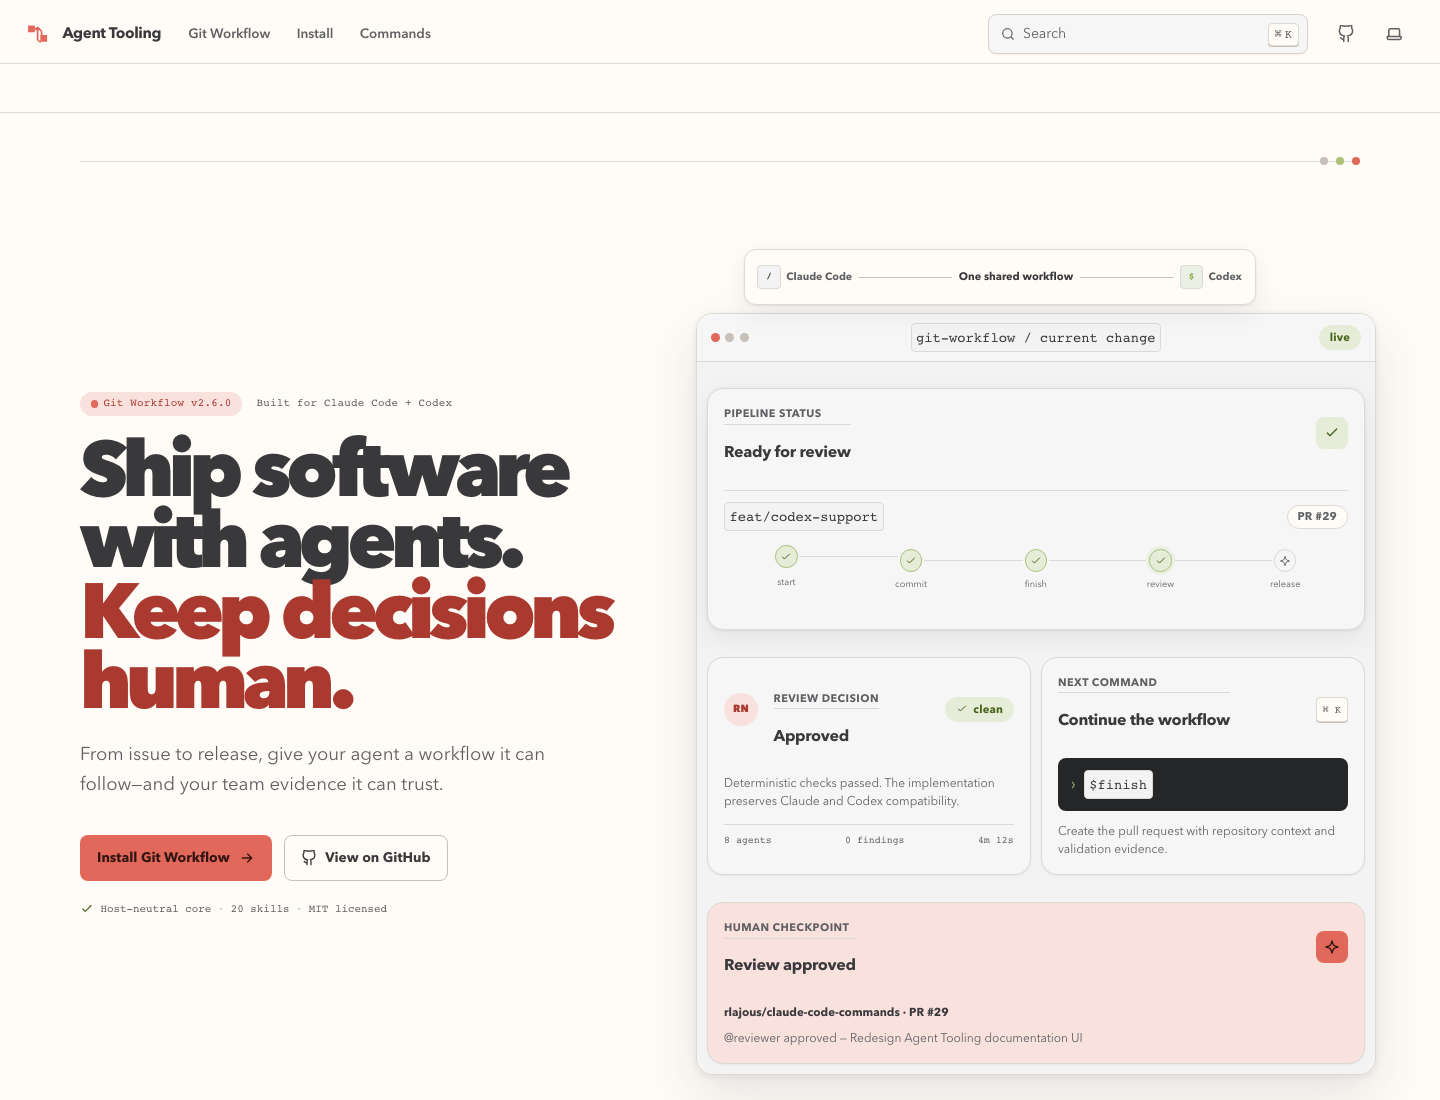
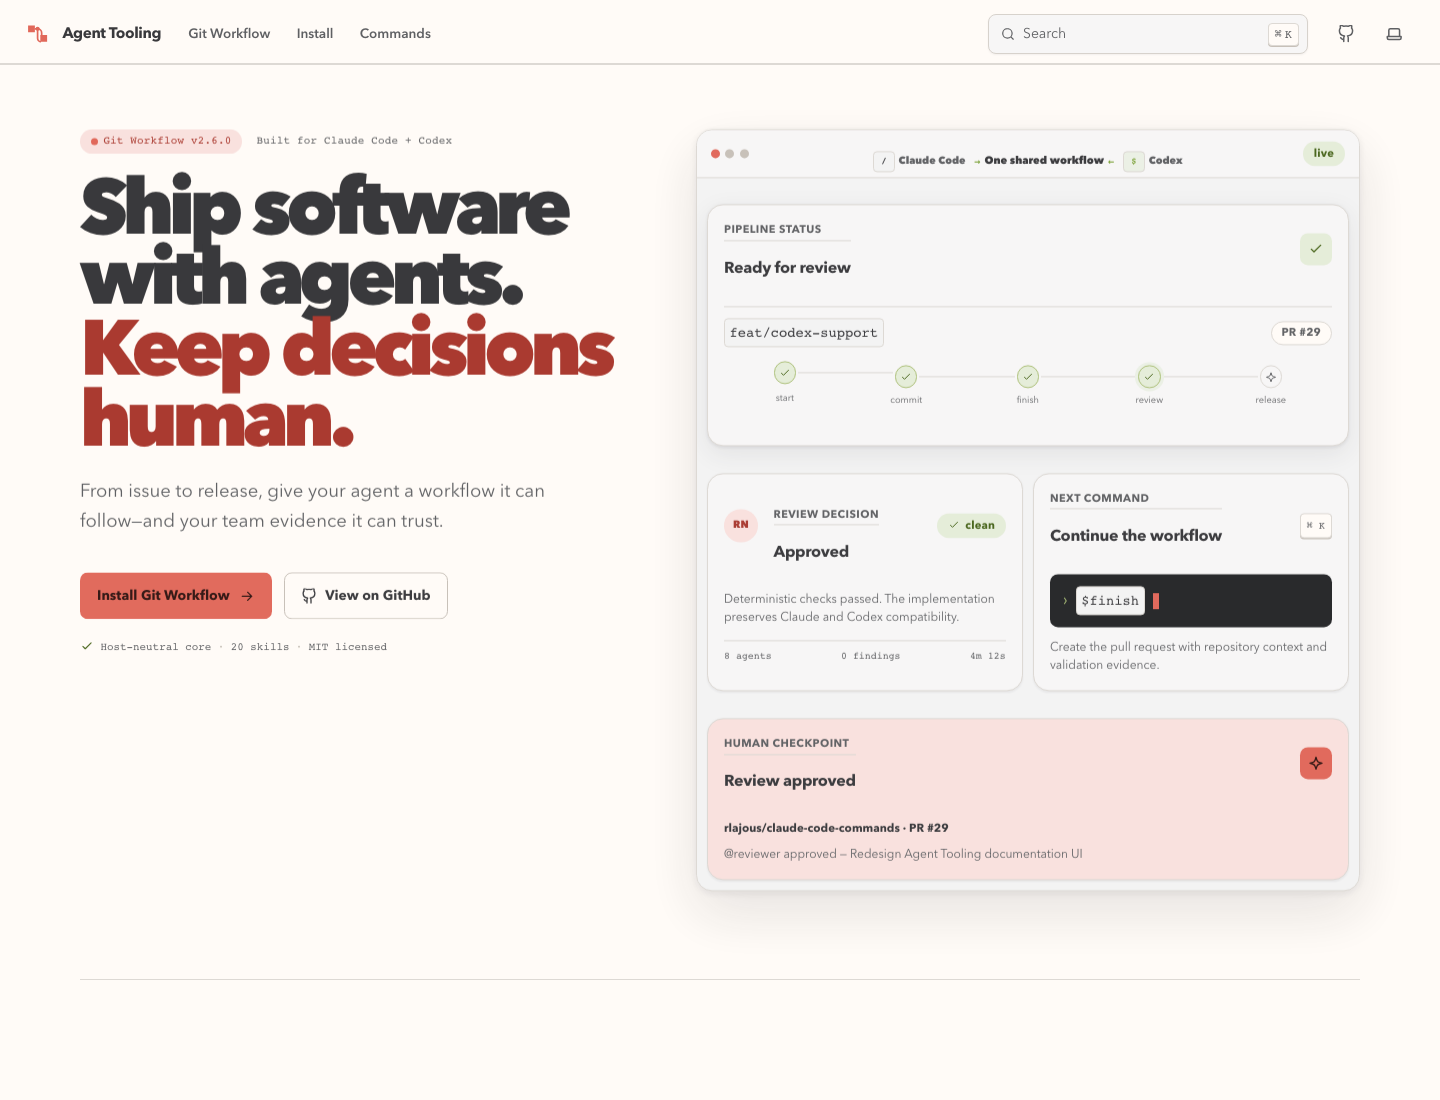
fix: tighten documentation hero layout

diff --git a/site/src/styles/custom.css b/site/src/styles/custom.css
@@ -461,6 +461,10 @@ site-search dialog {
 .ui-tab-panel:focus-visible { outline-offset: 0; }
 
 /* Landing page */
+body:has(.hub-landing) main > .content-panel:first-child {
+  display: none;
+}
+
 .hub-landing {
   position: relative;
   left: 50%;
@@ -471,32 +475,10 @@ site-search dialog {
 .hub-landing p, .hub-landing h1, .hub-landing h2, .hub-landing h3 { margin: 0; }
 
 .product-hero {
-  position: relative;
   display: grid;
-  align-items: center;
+  align-items: start;
   gap: clamp(3rem, 5vw, 5.5rem);
-  min-height: min(49rem, calc(100svh - 4rem));
-  padding: clamp(3.5rem, 7vw, 6rem) 0 clamp(4rem, 8vw, 6.5rem);
-}
-
-.product-hero::before {
-  position: absolute;
-  inset: 1.5rem 0 auto;
-  height: 1px;
-  background: var(--border);
-  content: '';
-}
-
-.product-hero::after {
-  position: absolute;
-  top: 1.25rem;
-  right: 0;
-  width: 0.5rem;
-  height: 0.5rem;
-  border-radius: 50%;
-  background: var(--primary);
-  box-shadow: -1rem 0 0 var(--secondary-hover), -2rem 0 0 var(--border-strong);
-  content: '';
+  padding: clamp(1.5rem, 3vw, 2.5rem) 0 clamp(3rem, 5vw, 4.5rem);
 }
 
 .hero-message { position: relative; z-index: 1; display: grid; justify-items: start; gap: 1.25rem; }
@@ -519,22 +501,20 @@ site-search dialog {
 .hero-assurance > svg { color: var(--success); }
 .hero-assurance > span { color: var(--border-strong); }
 
-.hero-visual { position: relative; min-width: 0; padding-top: 3rem; }
-.runtime-intake { position: absolute; z-index: 2; top: 0; left: clamp(0.5rem, 4vw, 3rem); display: grid; width: min(32rem, calc(100% - 2rem)); min-height: 3.5rem; align-items: center; border: 1px solid var(--border); border-radius: var(--radius-lg); background: var(--background); box-shadow: var(--shadow-md); color: var(--muted-foreground); grid-template-columns: auto minmax(1rem, 1fr) auto minmax(1rem, 1fr) auto; padding: 0.55rem 0.8rem; }
-.runtime-intake > span { display: inline-flex; align-items: center; gap: 0.35rem; font-size: 0.66rem; font-weight: 700; white-space: nowrap; }
-.runtime-intake code { display: grid; width: 1.45rem; height: 1.45rem; border-radius: var(--radius-sm); background: var(--primary-surface); color: var(--primary-strong); font-weight: 800; place-items: center; }
-.runtime-intake > span:last-child code { background: var(--secondary-surface); color: var(--secondary-strong); }
-.runtime-intake strong { color: var(--foreground); font-size: 0.68rem; text-align: center; white-space: nowrap; }
-.runtime-path { display: flex; align-items: center; padding-inline: 0.45rem; }
-.runtime-path::before { width: 100%; height: 1px; background: var(--border-strong); content: ''; }
-.runtime-path i { display: none; }
+.hero-visual { min-width: 0; margin-top: 0; }
 
 .product-playground { position: relative; border: 1px solid var(--border); border-radius: var(--radius-xl); background: var(--muted); box-shadow: var(--shadow-lg); overflow: hidden; }
 .playground-toolbar { display: grid; min-height: 3rem; align-items: center; border-bottom: 1px solid var(--border); background: var(--card); padding: 0 0.9rem; grid-template-columns: 1fr auto 1fr; }
-.playground-toolbar > div { display: flex; gap: 0.35rem; }
-.playground-toolbar > div span { width: 0.55rem; height: 0.55rem; border-radius: 50%; background: var(--border-strong); }
-.playground-toolbar > div span:first-child { background: var(--primary); }
-.playground-toolbar code { color: var(--muted-foreground); font-size: 0.64rem; }
+.window-controls { display: flex; gap: 0.35rem; }
+.window-controls span { width: 0.55rem; height: 0.55rem; border-radius: 50%; background: var(--border-strong); }
+.window-controls span:first-child { background: var(--primary); }
+.runtime-intake { display: flex; align-items: center; justify-content: center; gap: 0.55rem; color: var(--muted-foreground); font-size: 0.64rem; font-weight: 700; }
+.runtime-intake > span { display: inline-flex; align-items: center; gap: 0.25rem; white-space: nowrap; }
+.runtime-intake code { display: grid; width: 1.35rem; height: 1.35rem; border-radius: var(--radius-sm); background: var(--primary-surface); color: var(--primary-strong); font-weight: 800; place-items: center; }
+.runtime-intake > span:last-child code { background: var(--secondary-surface); color: var(--secondary-strong); }
+.runtime-path { color: var(--border-strong); }
+.runtime-path strong { color: var(--foreground); font-size: 0.66rem; }
+.runtime-path i { color: var(--secondary-strong); font-family: var(--font-mono); font-style: normal; }
 .playground-toolbar > .ui-badge { justify-self: end; }
 .playground-grid { display: grid; gap: 0.65rem; padding: 0.65rem; }
 .status-card { grid-column: 1 / -1; }
@@ -653,7 +633,6 @@ site-search dialog {
 
 @media (min-width: 68rem) {
   .product-hero { grid-template-columns: minmax(28rem, 0.9fr) minmax(34rem, 1.1fr); }
-  .hero-visual { margin-right: -1rem; }
 }
 
 @media (max-width: 30rem) {
@@ -661,13 +640,12 @@ site-search dialog {
   .hero-actions, .hero-actions .ui-button, .closing-call > div, .closing-call .ui-button { width: 100%; }
   .hero-message h1 { font-size: clamp(2.65rem, 13.3vw, 3.35rem); line-height: 0.94; }
   .hero-kicker > span { width: 100%; }
-  .runtime-intake { left: 0.35rem; width: calc(100% - 0.7rem); grid-template-columns: auto minmax(0.5rem, 1fr) auto minmax(0.5rem, 1fr) auto; padding-inline: 0.55rem; }
-  .runtime-intake > span { font-size: 0; }
-  .runtime-intake > span code { font-size: 0.7rem; }
-  .runtime-intake strong { font-size: 0.61rem; }
-  .runtime-path { padding-inline: 0.25rem; }
+  .playground-toolbar { grid-template-columns: auto minmax(0, 1fr) auto; gap: 0.55rem; padding-inline: 0.65rem; }
+  .runtime-intake { gap: 0.3rem; }
+  .runtime-intake b { position: absolute; width: 1px; height: 1px; overflow: hidden; clip: rect(0 0 0 0); }
+  .runtime-path strong { font-size: 0.6rem; }
+  .runtime-path i { display: none; }
   .playground-toolbar code { display: none; }
-  .playground-toolbar { grid-template-columns: 1fr auto; }
   .review-card .ui-card-header { align-items: flex-start; flex-wrap: wrap; }
   .review-card .ui-badge { margin-left: 2.8rem; }
   .ui-item { align-items: start; grid-template-columns: 1.5rem minmax(0, 1fr) auto; }

diff --git a/site/tests/site.spec.ts b/site/tests/site.spec.ts
@@ -32,6 +32,22 @@ test('landing page presents both hosts and real evidence', async ({ page }) => {
   await expect(page.locator('.brief-preview')).toHaveAttribute('href', '/git-workflow/examples/pr-23/');
 });
 
+test('landing hero starts directly below the header without a duplicate navigation band', async ({ page }, testInfo) => {
+  test.skip(testInfo.project.name !== 'desktop', 'The two-column hero is visible at this breakpoint.');
+  await page.goto('/');
+
+  const header = await page.locator('header.header').boundingBox();
+  const message = await page.locator('.hero-message').boundingBox();
+  const visual = await page.locator('.hero-visual').boundingBox();
+  expect(header).not.toBeNull();
+  expect(message).not.toBeNull();
+  expect(visual).not.toBeNull();
+  expect(message!.y - (header!.y + header!.height)).toBeLessThan(96);
+  expect(Math.abs(message!.y - visual!.y)).toBeLessThan(2);
+  await expect(page.locator('.product-hero > .runtime-intake')).toHaveCount(0);
+  await expect(page.locator('.playground-toolbar .runtime-intake')).toBeVisible();
+});
+
 test('host quick start supports mouse, keyboard, and copy feedback', async ({ page, context }) => {
   await context.grantPermissions(['clipboard-read', 'clipboard-write']);
   await page.goto('/');
